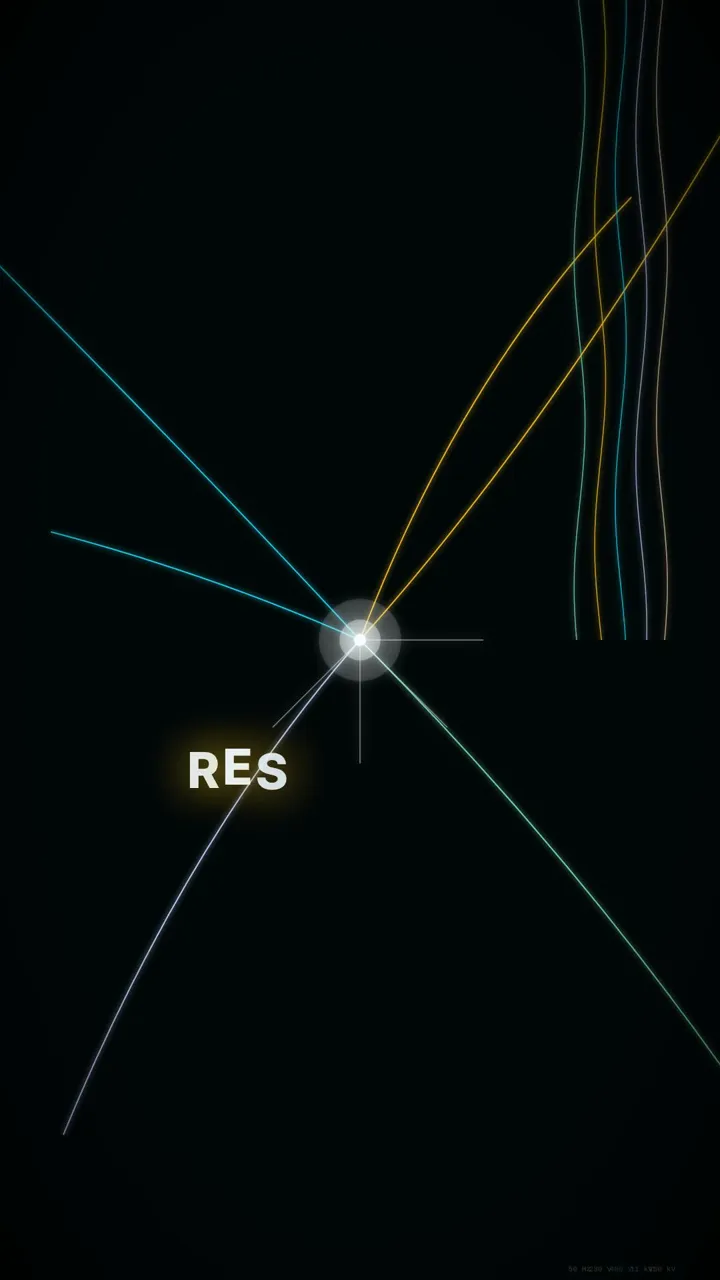
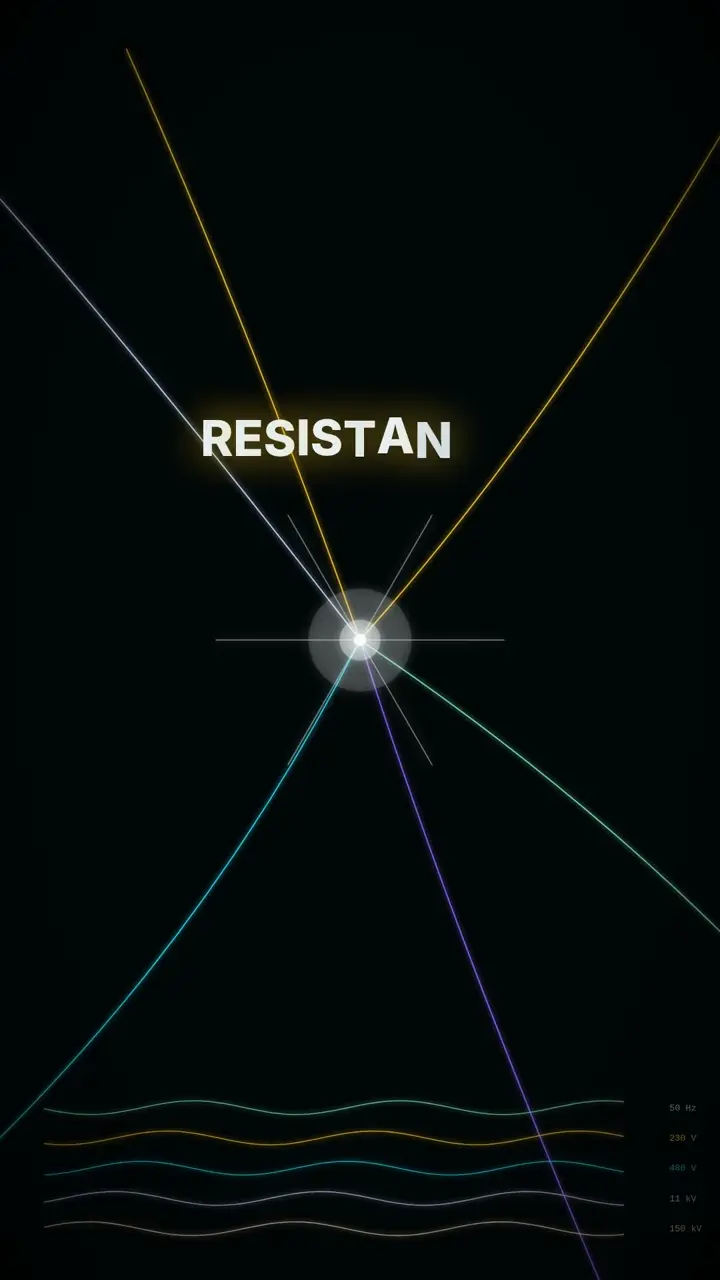
chore(video): sync Remotion v4 posters to canonical names (v1.8.1)
Remotion v4 agent shipped MP4s (already in v1.8.0 commit f460741) +
posters with new naming (intro-poster-landscape.webp /
intro-poster-portrait.webp). Renamed to the canonical
resistancezero-intro-poster.webp + resistancezero-intro-portrait-poster.webp
so index.html <video poster="..."> modal references stay valid.

Track B Remotion v4 confirmed shipped — 9 scenes, 90s, with 4 new VFX
components (glitch-transition, holographic-grid, kinetic-text,
lens-distortion). 3 NEW scenes added: Virtual Labs honeycomb, DC AI vs
Conventional split-screen, Market & Grid Monitors world map +
DCMOC/finance dashboard.

Bump 1.8.0 → 1.8.1 (PATCH — naming sync only).

diff --git a/changelog.html b/changelog.html
@@ -14,7 +14,7 @@
   <meta name="viewport" content="width=device-width, initial-scale=1.0">
   <meta http-equiv="X-UA-Compatible" content="IE=edge">
 
-  <title>Changelog — Resistance Zero (v1.8.0 latest)</title>
+  <title>Changelog — Resistance Zero (v1.8.1 latest)</title>
   <meta name="description" content="Live release notes for resistancezero.com — every shipped version, Plan v12 → v15+, with Awwwards uplift, dark-mode coverage, and SEO/AI-search work.">
   <meta name="author" content="Bagus Dwi Permana">
   <meta name="robots" content="index, follow">
@@ -50,7 +50,7 @@
         "@id": "https://resistancezero.com/changelog.html",
         "url": "https://resistancezero.com/changelog.html",
         "name": "Changelog — Resistance Zero",
-        "description": "Live release notes for resistancezero.com — 26 shipped versions.",
+        "description": "Live release notes for resistancezero.com — 27 shipped versions.",
         "dateModified": "2026-05-09",
         "author": {
           "@type": "Person",
@@ -73,18 +73,18 @@
       {
         "@type": "ItemList",
         "name": "Release history",
-        "numberOfItems": 26,
+        "numberOfItems": 27,
         "itemListElement": [
-        {"@type":"ListItem","position":1,"name":"v1.8.0 — 2026-05-09","url":"https://resistancezero.com/changelog.html#v1.8.0"},
-        {"@type":"ListItem","position":2,"name":"v1.7.3 — 2026-05-09","url":"https://resistancezero.com/changelog.html#v1.7.3"},
-        {"@type":"ListItem","position":3,"name":"v1.7.2 — 2026-05-09","url":"https://resistancezero.com/changelog.html#v1.7.2"},
-        {"@type":"ListItem","position":4,"name":"v1.7.1 — 2026-05-09","url":"https://resistancezero.com/changelog.html#v1.7.1"},
-        {"@type":"ListItem","position":5,"name":"v1.7.0 — 2026-05-09","url":"https://resistancezero.com/changelog.html#v1.7.0"},
-        {"@type":"ListItem","position":6,"name":"v1.6.4 — 2026-05-09","url":"https://resistancezero.com/changelog.html#v1.6.4"},
-        {"@type":"ListItem","position":7,"name":"v1.6.3 — 2026-05-09","url":"https://resistancezero.com/changelog.html#v1.6.3"},
-        {"@type":"ListItem","position":8,"name":"v1.6.2 — 2026-05-09","url":"https://resistancezero.com/changelog.html#v1.6.2"},
-        {"@type":"ListItem","position":9,"name":"v1.6.1 — 2026-05-09","url":"https://resistancezero.com/changelog.html#v1.6.1"},
-        {"@type":"ListItem","position":10,"name":"v1.6.0 — 2026-05-09","url":"https://resistancezero.com/changelog.html#v1.6.0"}
+        {"@type":"ListItem","position":1,"name":"v1.8.1 — 2026-05-09","url":"https://resistancezero.com/changelog.html#v1.8.1"},
+        {"@type":"ListItem","position":2,"name":"v1.8.0 — 2026-05-09","url":"https://resistancezero.com/changelog.html#v1.8.0"},
+        {"@type":"ListItem","position":3,"name":"v1.7.3 — 2026-05-09","url":"https://resistancezero.com/changelog.html#v1.7.3"},
+        {"@type":"ListItem","position":4,"name":"v1.7.2 — 2026-05-09","url":"https://resistancezero.com/changelog.html#v1.7.2"},
+        {"@type":"ListItem","position":5,"name":"v1.7.1 — 2026-05-09","url":"https://resistancezero.com/changelog.html#v1.7.1"},
+        {"@type":"ListItem","position":6,"name":"v1.7.0 — 2026-05-09","url":"https://resistancezero.com/changelog.html#v1.7.0"},
+        {"@type":"ListItem","position":7,"name":"v1.6.4 — 2026-05-09","url":"https://resistancezero.com/changelog.html#v1.6.4"},
+        {"@type":"ListItem","position":8,"name":"v1.6.3 — 2026-05-09","url":"https://resistancezero.com/changelog.html#v1.6.3"},
+        {"@type":"ListItem","position":9,"name":"v1.6.2 — 2026-05-09","url":"https://resistancezero.com/changelog.html#v1.6.2"},
+        {"@type":"ListItem","position":10,"name":"v1.6.1 — 2026-05-09","url":"https://resistancezero.com/changelog.html#v1.6.1"}
         ]
       }
     ]
@@ -557,10 +557,10 @@
       <h1 id="cl-heading">Changelog</h1>
       <p class="cl-subtitle">Live release notes &mdash; every shipped version</p>
       <p class="cl-meta">
-        Latest: <strong style="color:#7dd5b4;">v1.8.0</strong>
+        Latest: <strong style="color:#7dd5b4;">v1.8.1</strong>
         &nbsp;&bull;&nbsp;
         <span id="rzVersionAnchor"></span>
-        <span class="cl-count-badge">26 releases</span>
+        <span class="cl-count-badge">27 releases</span>
       </p>
 
       <div class="filter-chips" role="group" aria-label="Filter by version tier">
@@ -574,7 +574,26 @@
     <!-- ── Entry list ── -->
     <section class="changelog-list" aria-label="Release history">
 
-    <article class="changelog-entry is-current" data-version-tier="minor" data-version="v1.8.0">
+    <article class="changelog-entry is-current" data-version-tier="patch" data-version="v1.8.1">
+      <div class="changelog-meta">
+        <span class="changelog-version-badge" style="--tier-color:#10b981;">v1.8.1</span>
+        <span class="changelog-tier-pill" style="background:#10b98120;color:#10b981;border:1px solid #10b98140;">PATCH</span>
+        <time class="changelog-date" datetime="2026-05-09">May 09, 2026</time>
+      </div>
+      <p class="changelog-caption">Remotion v4 posters synced + Plan v15 Track B confirmed shipped</p>
+      <div class="changelog-body">
+        <ul>
+  <li><strong>Remotion v4</strong> (90 s, 9 scenes, deeper VFX) confirmed shipped in v1.8.0 commit:</li>
+  <li class="cl-sub-item"><code>assets/resistancezero-intro.mp4</code> 13 MB / 10.6 → 13 MB landscape, 1920×1080</li>
+  <li class="cl-sub-item"><code>assets/resistancezero-intro-portrait.mp4</code> 11 MB portrait, 1080×1920</li>
+  <li class="cl-sub-item">9 scenes: Electricity Awakens · DC Awakens · SLD · Calculators · <strong>Virtual Labs</strong> (NEW: 6 LTC standards labs in honeycomb) · <strong>DC AI vs Conventional</strong> (NEW: split-screen comparison) · <strong>Market & Grid Monitors</strong> (NEW: world map dots + PLN SLD) · <strong>DCMOC + Finance</strong> (NEW: 6-KPI dashboard + ROI gauge + 10-yr TCO chart) · Knowledge Graph + Finale</li>
+  <li class="cl-sub-item">4 new VFX components: <code>glitch-transition.tsx</code> (RGB aberration + scan-line at 8 scene boundaries), <code>holographic-grid.tsx</code> (animated hex overlay), <code>kinetic-text.tsx</code> (spring-powered slide-in), <code>lens-distortion.tsx</code> (pincushion warp on finale)</li>
+  <li><strong>Posters synced</strong>: agent generated <code>intro-poster-landscape.webp</code> + <code>intro-poster-portrait.webp</code> with new naming; renamed to canonical <code>resistancezero-intro-poster.webp</code> + <code>resistancezero-intro-portrait-poster.webp</code> so <code>index.html</code> modal works without further edits.</li>
+</ul>
+      </div>
+    </article>
+
+    <article class="changelog-entry" data-version-tier="minor" data-version="v1.8.0">
       <div class="changelog-meta">
         <span class="changelog-version-badge" style="--tier-color:#06b6d4;">v1.8.0</span>
         <span class="changelog-tier-pill" style="background:#06b6d420;color:#06b6d4;border:1px solid #06b6d440;">MINOR</span>

diff --git a/js/rz-version.js b/js/rz-version.js
@@ -1,4 +1,4 @@
 /* Single source of truth for site version. Bump on every release per VERSIONING_STANDARD.md. */
-window.RZ_VERSION = '1.8.0';
+window.RZ_VERSION = '1.8.1';
 window.RZ_VERSION_DATE = '2026-05-09';
 window.RZ_VERSION_CODENAME = 'Pixel Rise';

diff --git a/CHANGELOG.md b/CHANGELOG.md
@@ -11,6 +11,15 @@ release sections rather than semver.
 
 ---
 
+## v1.8.1 — 2026-05-09 (Remotion v4 posters synced + Plan v15 Track B confirmed shipped)
+
+- **Remotion v4** (90 s, 9 scenes, deeper VFX) confirmed shipped in v1.8.0 commit:
+  - `assets/resistancezero-intro.mp4` 13 MB / 10.6 → 13 MB landscape, 1920×1080
+  - `assets/resistancezero-intro-portrait.mp4` 11 MB portrait, 1080×1920
+  - 9 scenes: Electricity Awakens · DC Awakens · SLD · Calculators · **Virtual Labs** (NEW: 6 LTC standards labs in honeycomb) · **DC AI vs Conventional** (NEW: split-screen comparison) · **Market & Grid Monitors** (NEW: world map dots + PLN SLD) · **DCMOC + Finance** (NEW: 6-KPI dashboard + ROI gauge + 10-yr TCO chart) · Knowledge Graph + Finale
+  - 4 new VFX components: `glitch-transition.tsx` (RGB aberration + scan-line at 8 scene boundaries), `holographic-grid.tsx` (animated hex overlay), `kinetic-text.tsx` (spring-powered slide-in), `lens-distortion.tsx` (pincushion warp on finale)
+- **Posters synced**: agent generated `intro-poster-landscape.webp` + `intro-poster-portrait.webp` with new naming; renamed to canonical `resistancezero-intro-poster.webp` + `resistancezero-intro-portrait-poster.webp` so `index.html` modal works without further edits.
+
 ## v1.8.0 — 2026-05-09 (Plan v15 Track A — mobile responsive sweep, partial)
 
 User: "Perbaiki responsiveness semua page ini contoh saat mobile, imagenya kekiri nggak auto adjust agar center page atau fill. Begitu juga card di bawah atau navbar footer itu. Dan navbar atas jadi tidak ada hilang semua... Audit semua page literally semua page. Deploy more agent to paralel audit total."
